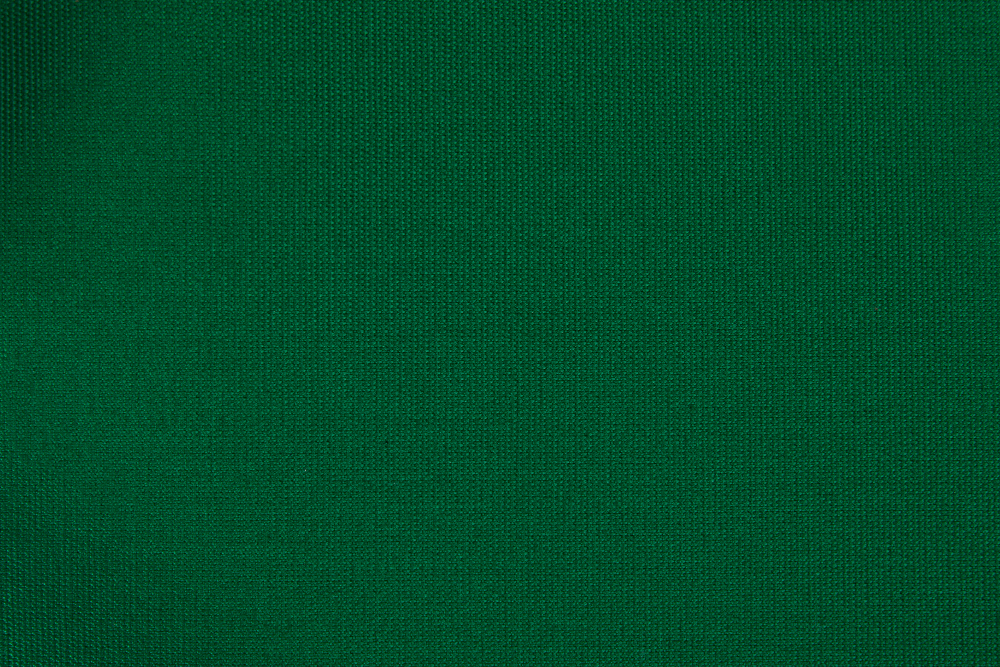
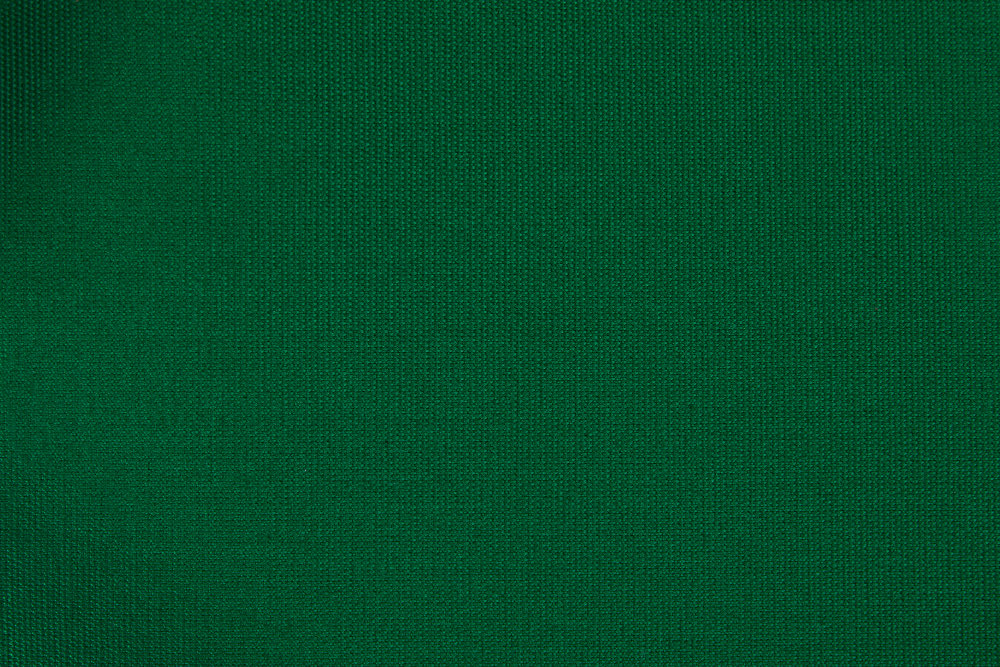
feat(seo): Phase 0 — visible roadmap/vote footer, Organization JSON-LD, compress felt bg, sitemap lastmod
- Visible <footer> OUTSIDE #root (React only controls #root) so real users see the
  'Vote on what we build next' + open-source links — the static landing inside #root is
  crawler-only (replaced on mount). Fixes 'I don't see Help shape the roadmap'.
- Add Organization JSON-LD (sameAs GitHub).
- Compress table-felt.jpg 1.26MB -> 285KB (sips q58, same dims/filename) — LCP/bandwidth win.
- sitemap.xml lastmod -> 2026-06-21.

diff --git a/client/index.html b/client/index.html
@@ -110,6 +110,18 @@
       }
     </script>
 
+    <!-- Structured data: organization / brand -->
+    <script type="application/ld+json">
+      {
+        "@context": "https://schema.org",
+        "@type": "Organization",
+        "name": "Serbito Planning Poker",
+        "url": "https://poker.serbito.rs/",
+        "description": "Free, open-source online planning poker for agile Scrum teams.",
+        "sameAs": ["https://github.com/alxndr-bnd/planning-poker"]
+      }
+    </script>
+
     <style>
       /* Static SEO landing shown before the React app mounts. Googlebot's first
          crawl wave reads this; on mount, React replaces #root with the live app,
@@ -209,6 +221,28 @@
         <p><a href="https://poker.serbito.rs/">Start a free Planning Poker room →</a></p>
       </main>
     </div>
+    <!-- Visible footer OUTSIDE #root — React only controls #root, so this stays
+         on screen for real users (the static landing above is replaced on mount,
+         and serves crawlers). Self-contained styles so it doesn't depend on app CSS. -->
+    <footer
+      style="
+        border-top: 1px solid rgba(0, 0, 0, 0.08);
+        padding: 0.85rem 1rem;
+        text-align: center;
+        font: 0.85rem/1.4 system-ui, -apple-system, Segoe UI, Roboto, sans-serif;
+        color: #5b6b62;
+        background: #f4f7f5;
+      "
+    >
+      Free &amp; open-source planning poker — no ads, no sign-up. ·
+      <a href="https://github.com/alxndr-bnd/planning-poker" rel="noopener" style="color: #15603b; font-weight: 600;">Open source on GitHub</a>
+      ·
+      <a
+        href="https://github.com/alxndr-bnd/planning-poker/issues?q=is%3Aissue+is%3Aopen+label%3Afeature-vote+sort%3Areactions-%2B1-desc"
+        rel="noopener"
+        style="color: #15603b; font-weight: 600;"
+      >🗳️ Vote on what we build next</a>
+    </footer>
     <script type="module" src="/src/main.tsx"></script>
   </body>
 </html>